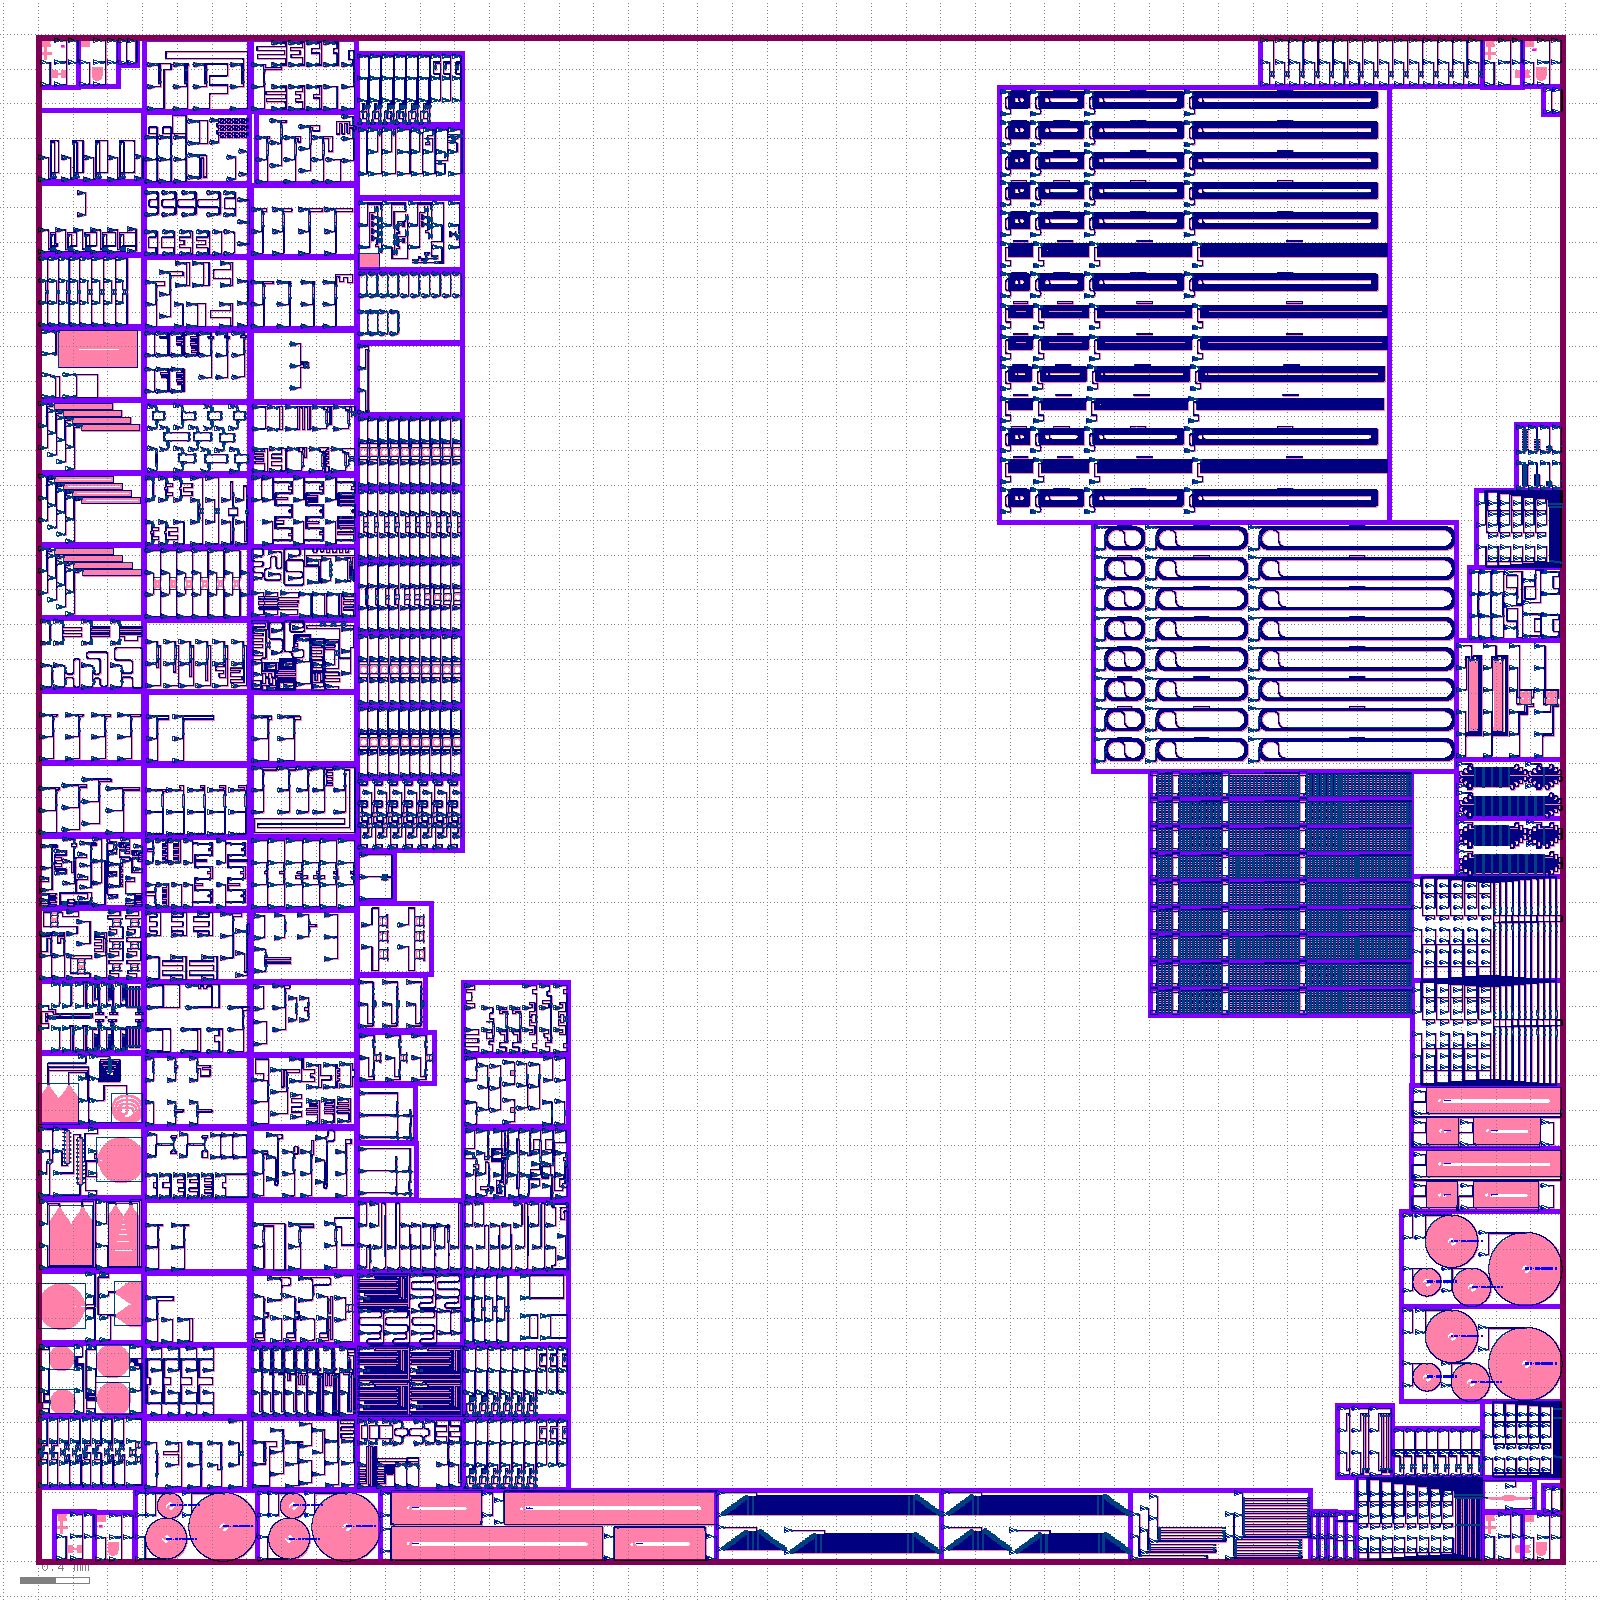
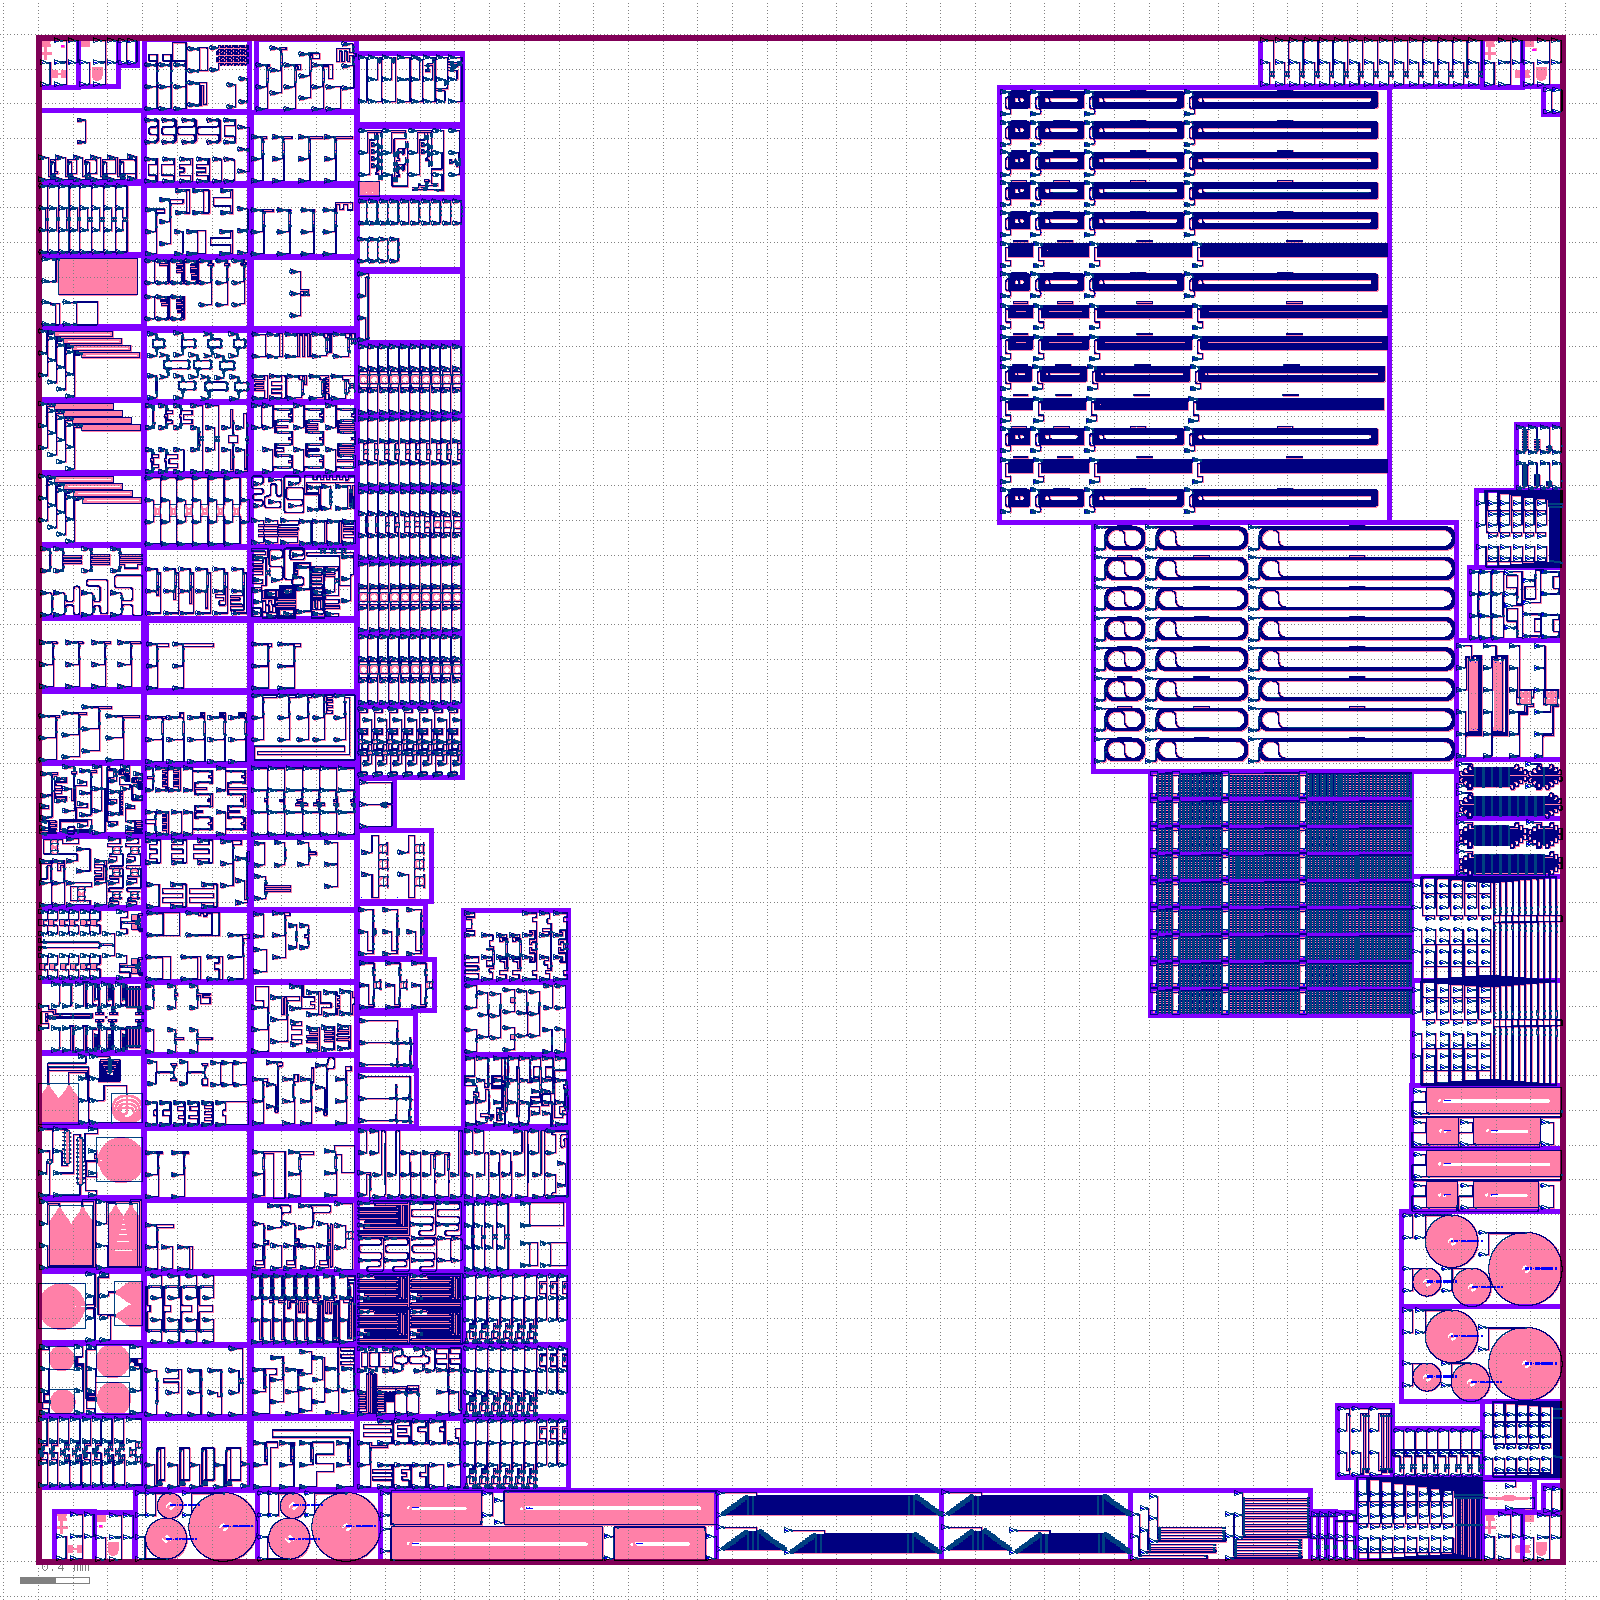
Aggregation layout: https://github.com/SiEPIC/openEBL-2026-05/actions/runs/25926695457/artifacts/7020745571

Changed region(s): [[0.0, 0.0, 0.375, 0.9375]]

diff --git a/README.md b/README.md
@@ -91,5 +91,5 @@ Will be added here.
 
 Click on the following link to download the EBeam.oas merged layout file:
 <!-- start-link -->
-https://github.com/SiEPIC/openEBL-2026-05/actions/runs/25926351778/artifacts/7020604599
+https://github.com/SiEPIC/openEBL-2026-05/actions/runs/25926695457/artifacts/7020745571
 <!-- end-link -->